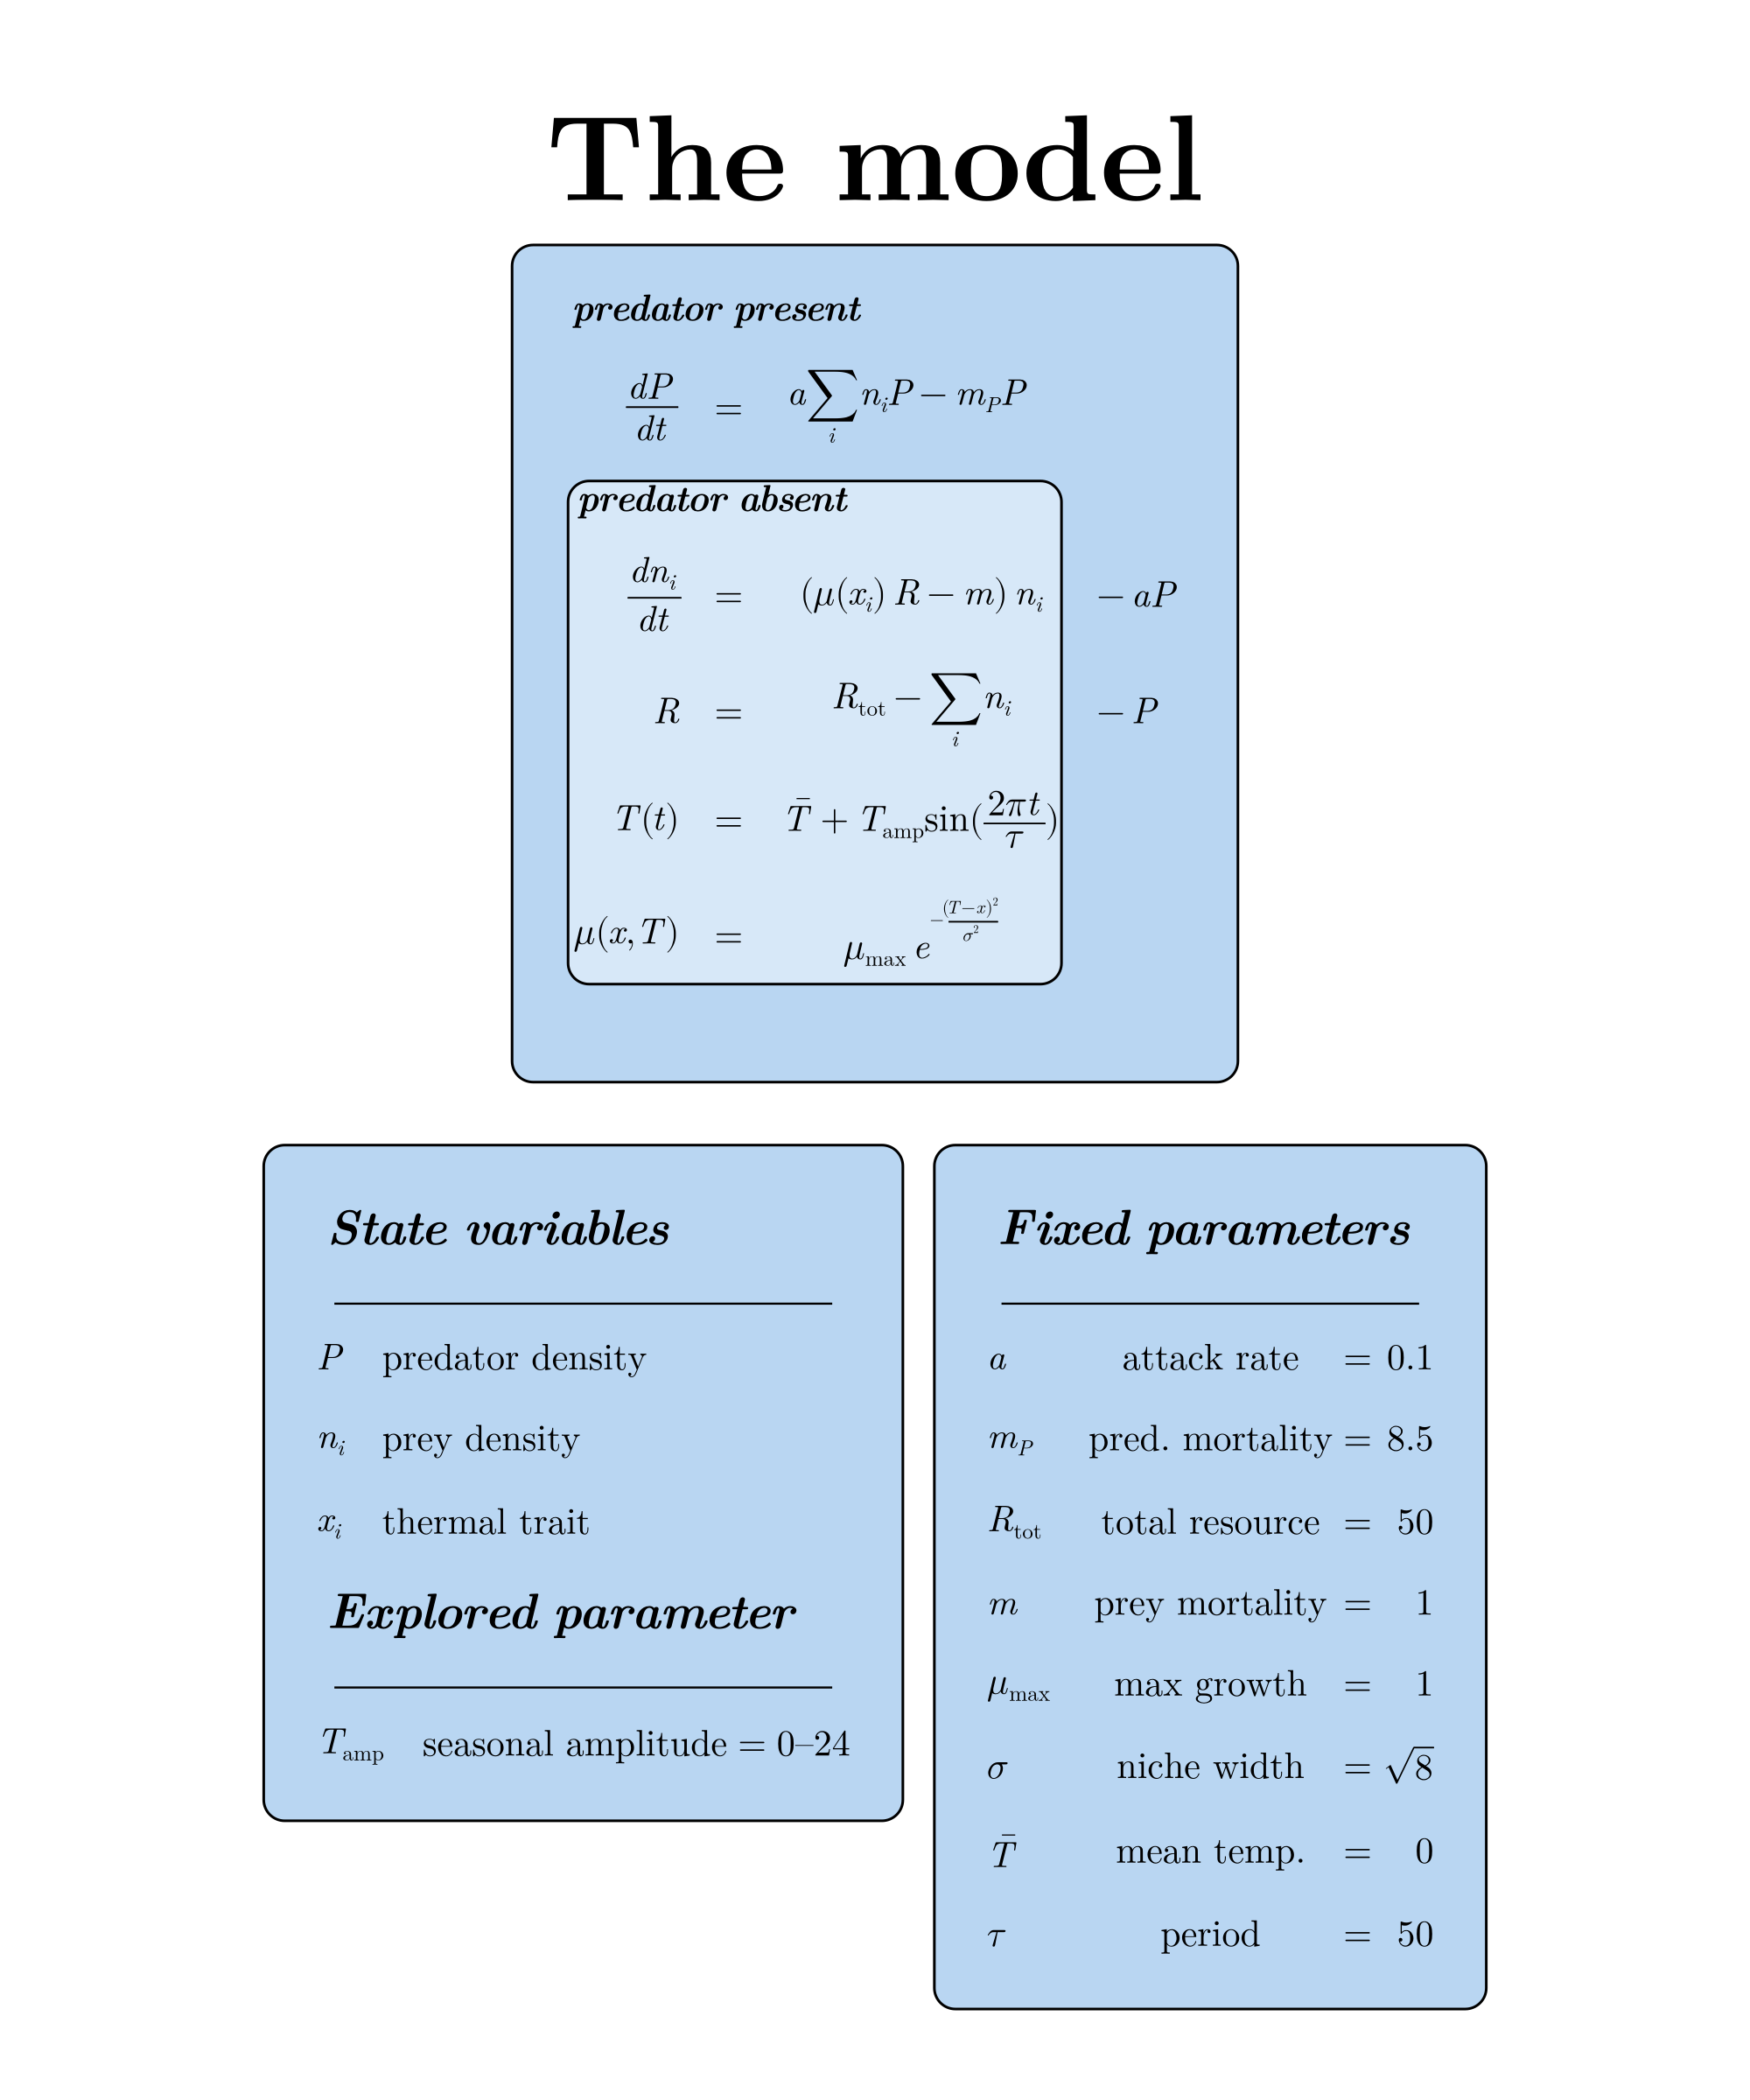
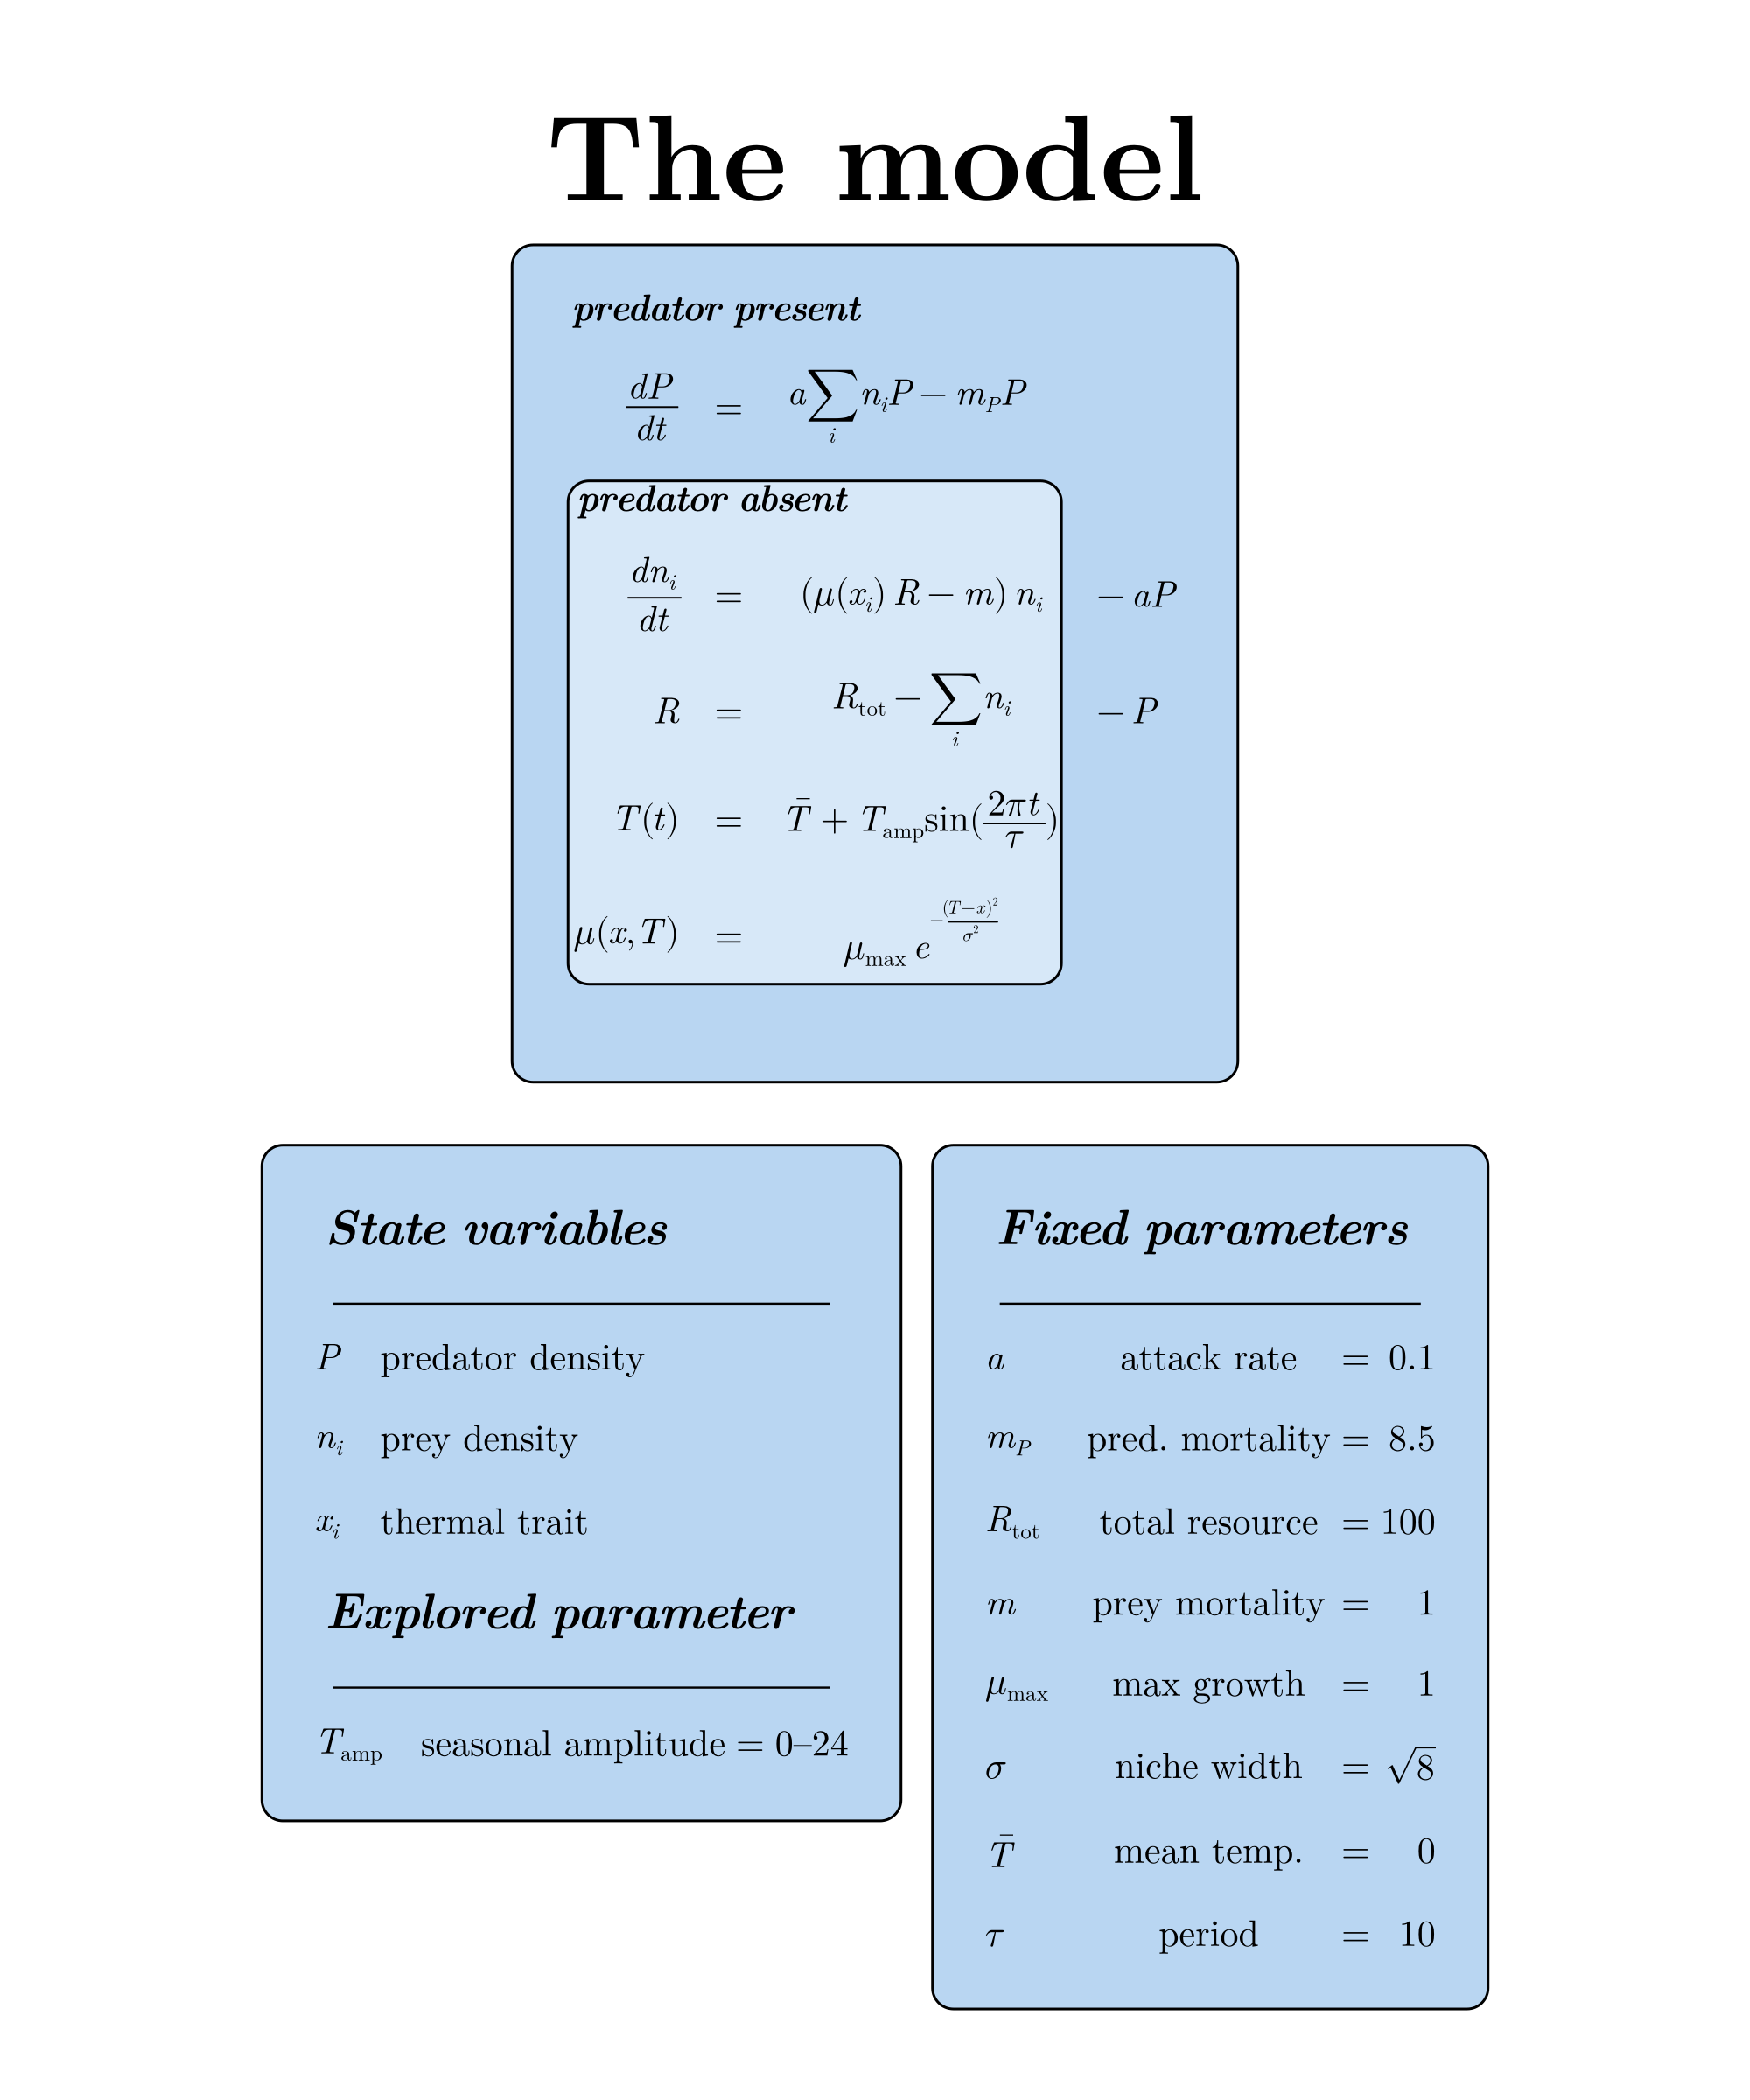
Update model figure: Rtot=100, τ=10.

diff --git a/index.html b/index.html
@@ -119,7 +119,7 @@
             </p>
             <figure class="full-col-fig">
               <img
-                src="images/model_definitions.png?v=1"
+                src="images/model_definitions.png?v=2"
                 alt="Nested predator-present and predator-absent model equations with state variables, fixed parameters, and explored seasonal amplitude"
                 width="1000"
                 height="1200"